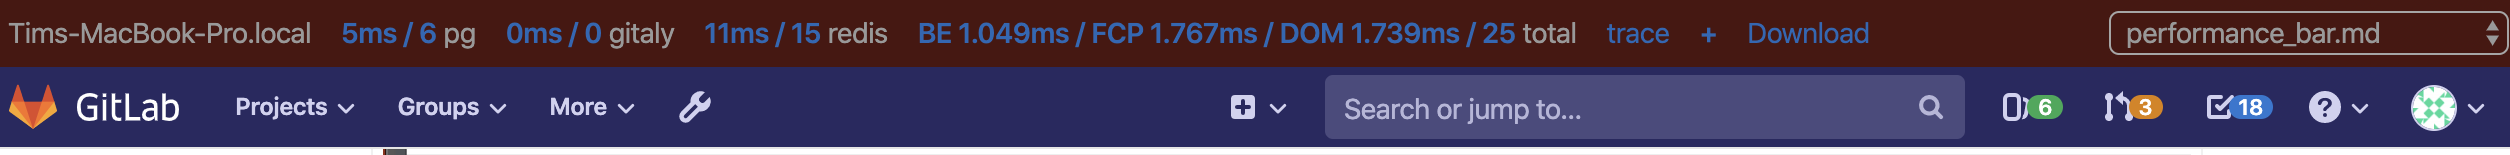
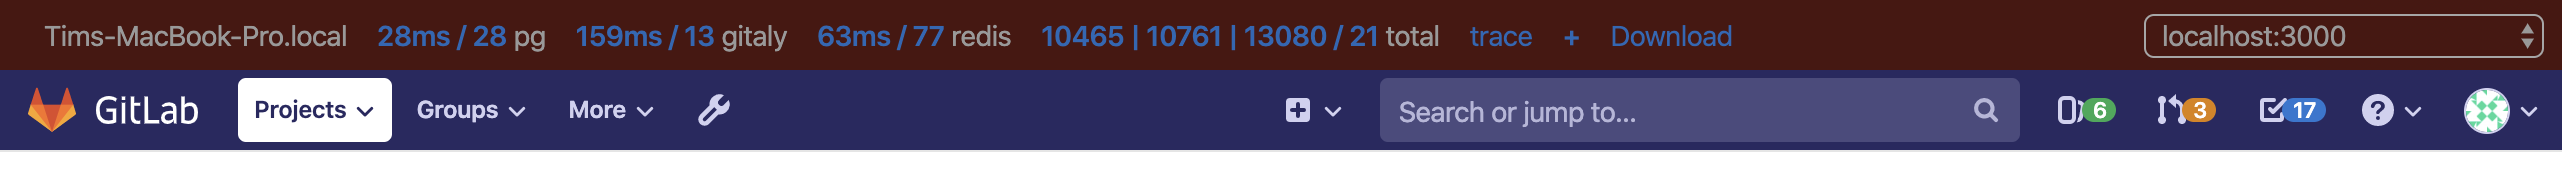
Removed performance bar labels for total rendering

diff --git a/app/assets/javascripts/performance_bar/index.js b/app/assets/javascripts/performance_bar/index.js
@@ -70,9 +70,9 @@ export default ({ container }) =>
 
           let durationString = '';
           if (navigationEntries.length > 0) {
-            durationString = `BE ${this.formatMs(navigationEntries[0].responseEnd)} / `;
-            durationString += `FCP ${this.formatMs(paintEntries[1].startTime)} / `;
-            durationString += `DOM ${this.formatMs(navigationEntries[0].domContentLoadedEventEnd)}`;
+            durationString = `${Math.round(navigationEntries[0].responseEnd)} | `;
+            durationString += `${Math.round(paintEntries[1].startTime)} | `;
+            durationString += ` ${Math.round(navigationEntries[0].domContentLoadedEventEnd)}`;
           }
 
           let newEntries = resourceEntries.map(this.transformResourceEntry);
@@ -104,10 +104,6 @@ export default ({ container }) =>
           duration: Math.round(entry.duration),
           size: entry.transferSize ? `${nf.format(entry.transferSize)} bytes` : 'cached',
         };
-      },
-      formatMs(msValue) {
-        const nf = new Intl.NumberFormat();
-        return `${nf.format(Math.round(msValue))}ms`;
       },
     },
     render(createElement) {

diff --git a/doc/administration/monitoring/performance/performance_bar.md b/doc/administration/monitoring/performance/performance_bar.md
@@ -16,10 +16,10 @@ It allows you to see (from left to right):
   ![Rugged profiling using the Performance Bar](img/performance_bar_rugged_calls.png)
 - time taken and number of Redis calls; click through for details of these calls
   ![Redis profiling using the Performance Bar](img/performance_bar_redis_calls.png)
-- total load timings of the page; click through for details of these calls
-  - BE = Backend - Time that the actual base page took to load
-  - FCP = [First Contentful Paint](https://developers.google.com/web/tools/lighthouse/audits/first-contentful-paint) - Time until something was visible to the user
-  - DOM = [DomContentLoaded](https://developers.google.com/web/fundamentals/performance/critical-rendering-path/measure-crp) Event
+- total load timings of the page; click through for details of these calls. Values in the following order:
+  - Backend - Time that the actual base page took to load
+  - [First Contentful Paint](https://developers.google.com/web/tools/lighthouse/audits/first-contentful-paint) - Time until something was visible to the user
+  - [DomContentLoaded](https://developers.google.com/web/fundamentals/performance/critical-rendering-path/measure-crp) Event
   - Number of Requests that the page loaded
   ![Frontend requests using the Performance Bar](img/performance_bar_frontend.png)
 - a link to add a request's details to the performance bar; the request can be
